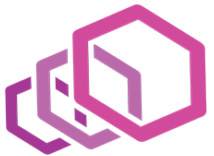
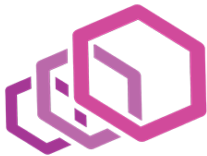
docs: Livedocs improvements: Fixed Envoy image
- made the actual image into a square
- removed the special-purpose envoy-image handling

diff --git a/docs/website/layouts/index.html b/docs/website/layouts/index.html
@@ -231,7 +231,7 @@
                   </li>
                   <li class="nav-item">
                     <a class="nav-link nav-width" data-toggle="tab" href="#tabs-2"  role="tab">
-                      <img src="./img/policyIcon-2.png" class="envoyLogo">
+                      <img src="./img/envoy-square.png">
                       Envoy</a>
                   </li>
                   <!-- <li class="nav-item">

diff --git a/docs/website/static/css/home.css b/docs/website/static/css/home.css
@@ -908,9 +908,13 @@ h4{
         line-height: 18px;
     }
 
-    .envoyLogo{
-        width: 50px !important;
+    .envoy img{
+        width: 50px;
     }
+
+    /* .envoyLogo{
+        width: 50px !important;
+    } */
     .nav-tabs .nav-width {
         width: 140px !important;
         max-width: 140px;
